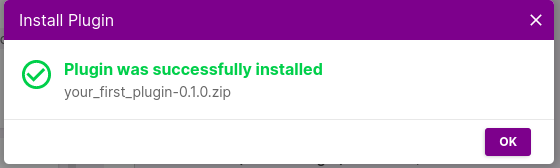
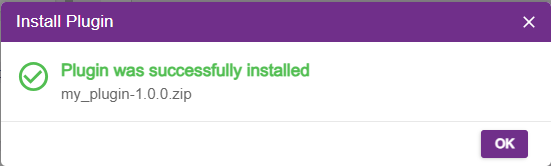
add input box into guided example and update the guides to reflect the new sample data

diff --git a/docs/guided_example/deploy_your_plugin.md b/docs/guided_example/deploy_your_plugin.md
@@ -41,7 +41,7 @@ ai-verify-plugin zip
 !!! note
     A new folder `dist` will be created. This folder is where the packaged `.zip` file will be created and placed.
 
-Verify that the zip file ```your_first_plugin-1.0.0.zip``` exists in your `dist` directory:
+Verify that the zip file ```my_plugin-1.0.0.zip``` exists in your `dist` directory:
 
 The resulting plugin is packaged as a `zip` file, which can be used to share with other developers who are interested in using your plugin. Users and developers can then upload the zip file onto AI Verify through the plugin manager and use it in the report.
 
@@ -52,7 +52,7 @@ To upload the plugin, start the frontend portal of AI Verify. You will need to i
 1. Once the portal is started up, visit the portal at [http://localhost:3000/home](http://localhost:3000/home). In the homepage, click on "Plugins" to visit the Plugin Manager page:
    ![aiv_homepage](../images/aiv_home_page.png)
 
-2. In the **Plugin Manager page**, click on "INSTALL PLUGIN" at the top right and select ```your_first_plugin-0.1.0.zip```, then click on "INSTALL" :
+2. In the **Plugin Manager page**, click on "INSTALL PLUGIN" at the top right and select ```my_plugin-0.1.0.zip```, then click on "INSTALL" :
    ![install_plugin](../images/install_plugin.png)
 
    
@@ -71,21 +71,20 @@ To upload the plugin, start the frontend portal of AI Verify. You will need to i
     ![project_details](../images/project_details.png)
 3. On the **Design Report** page, drag your widget from the left panel to the canvas:
    ![canvas](../images/canvas.png)
-   You can resize the the widget and click on the alignment buttons to refresh its size. When you're ready, click "Next" on the top right.
+   Since the widget is a **dynamic height** widget, the widget height will expand dynamically to fill to the bottom of the canvas. When you're ready, click "Next" on the top right.
 4. On the **Select the Datasets and AI Model to be tested** page, select and upload the dataset, ground truth dataset and model. You can use the dataset provided in the template or download from [here](https://github.com/IMDA-BTG/aiverify/tree/main/examples). Refer to the following table for reference.
 
       | Data, Model, and Test Arguments | Selected Dataset / Model / Test Arguments |
       | ---- | ---------- |
-      | Testing Dataset | ```pickle_pandas_mock_binary_classification_credit_risk_testing.sav``` |
-      | Ground Truth Dataset | ```pickle_pandas_mock_binary_classification_credit_risk_testing.sav```, Ground Truth: ```default``` |
-      | AI Model | ```binary_classification_mock_credit_risk_sklearn.linear_model._logistic.LogisticRegression.sav``` | 
+      | Testing Dataset | ```sample_bc_credit_data.sav``` |
+      | Ground Truth Dataset | ```sample_bc_credit_data.sav```, Ground Truth: ```default``` |
+      | AI Model | ```sample_bc_credit_data.sav``` | 
       | Test Arguments | ```gender``` |
 
-5. For the model, choose ```Upload AI Model``` and click "Next".
+5. During model upload, choose ```Upload AI Model``` to the AI model file and click "Next".
    ![upload_model](../images/upload_model.png)
-6. We will be uploading the ```binary_classification_mock_credit_risk_sklearn.linear_model._logistic.LogisticRegression.sav``` model.
-   ![model_uploaded_successfully](../images/model_uploaded_successfully.png) 
-7. Type `gender` into the plugin arguments. The end result should look like this.
+6. Click "OPEN" at the "My Algorithm" box and type `gender` for the feature name.
+7. Click "OPEN" at the "My Input Block" box and enter your first and last name. The end result should look like this.
    ![data_and_model_selection](../images/data_and_model_selection.png) 
 8. When you are ready, click on "Next" on the top right. Click on "PROCEED" when prompted:
    ![confirm_generate_report](../images/confirm_generate_report.png) 

diff --git a/docs/guided_example/your_first_widget.md b/docs/guided_example/your_first_widget.md
@@ -10,10 +10,11 @@ There are three learning objectives in this tutorial:
 
 Widgets are stored in the **my_plugin/widgets** folder. Use [**ai-verify-plugin gw**](../plugins/Plugin_Tool.md#generate-widget-alias-gw) to generate your widget.
 
-Run the following command to generate a new widget and create a dependency to the algorithm component created earlier.
+Run the following command to generate a new widget and create a dependency to the algorithm and input block components created earlier.
 
 ```bash
-ai-verify-plugin gw "my_widget" --name "My Widget" --description "My first widget" --dep "Algorithm,my_algorithm"
+ai-verify-plugin gw "my_widget" --name "My Widget" --description "My first widget" --dep "Algorithm,my_algorithm" --dep "InputBlock,my_inputblock" --minW 12 --dynamicHeight
+
 ```
 
 Verify that the directory ```widgets``` exists in your current directory with the files for the widgets generated inside.
@@ -22,22 +23,35 @@ Verify that the directory ```widgets``` exists in your current directory with th
 ls widgets
 ```
 
+The following files are created:
+
+- my_widget.mdx
+- my_widget.meta.json
+- my_algorithm.sample.json
+- my_inputblock.sample.json
+
+## Check the Widget Meta Data
+
 Open the file `my_widget.meta.json` under the ```widgets``` folder and check that the properties are set correctly as shown below:
 
-```JSON
+```JSON title="my_widget.meta.json"
 {
   "cid": "my_widget",
   "widgetSize": {
-    "minW": 1,
+    "minW": 12,
     "minH": 1,
     "maxW": 12,
     "maxH": 36
   },
   "name": "My Widget",
   "description": "My first widget",
+  "dynamicHeight": true,
   "dependencies": [
     {
       "cid": "my_algorithm"
+    },
+    {
+      "cid": "my_inputblock"
     }
   ],
   "mockdata": [
@@ -45,15 +59,21 @@ Open the file `my_widget.meta.json` under the ```widgets``` folder and check tha
       "type": "Algorithm",
       "cid": "my_algorithm",
       "datapath": "my_algorithm.sample.json"
+    },
+    {
+      "type": "InputBlock",
+      "cid": "my_inputblock",
+      "datapath": "my_inputblock.sample.json"
     }
   ]
 }
 ```
-## Editing sample file
+
+## Editing sample algorithm file
 
 Open and edit `my_algorithm.sample.json` with a valid sample output from the algorithm or input block. This sample data will be passed to the MDX component props in the project canvas, and allows the MDX to display data based on sample input.
 
-```JSON
+```JSON title="my_algorithm.sample.json"
 {"my_expected_results": [
       33280.0,
       40000.0,
@@ -71,20 +91,41 @@ Open and edit `my_algorithm.sample.json` with a valid sample output from the alg
 }
 ```
 
+## Editing sample input block file
+
+Open and edit `my_inputblock.sample.json` with a valid sample output from the algorithm or input block. This sample data will be passed to the MDX component props in the project canvas, and allows the MDX to display data based on sample input.
+
+```JSON title="my_inputblock.sample.json"
+{
+  "fname": "John",
+  "lname": "Doe"
+}
+```
+
 ## Editing MDX
 
 Open and edit `my_widget.mdx` to implement the MDX content.
 
-```Javascript
-export const cid = "my_algorithm"
+```Javascript title="my_widget.mdx"
+export const algo_cid = "my_algorithm"
+export const ib_cid = "my_inputblock"
 
-{props.getResults(cid)?(
+{props.getIBData(ib_cid)?(
   <>
-    <b>JSON output of algorithm</b>
-    <div style={{ maxHeight:"100px", overflow:"auto" }}>{JSON.stringify(props.getResults(cid))}</div>
+    <b>JSON output of input block data</b>
+    <div>{JSON.stringify(props.getIBData(ib_cid))}</div>
   </>
 ):(
-  <div>No data</div>
+  <div>No widget data</div>
+)}
+
+{props.getResults(algo_cid)?(
+  <>
+    <b>JSON output of algorithm</b>
+    <pre>{JSON.stringify(props.getResults(algo_cid),null,2)}</pre>
+  </>
+):(
+  <div>No algorithm data</div>
 )}
 ```
 

diff --git a/docs/guided_example/your_first_inputblock.md b/docs/guided_example/your_first_inputblock.md
@@ -1,0 +1,78 @@
+# Creating your First Input Block Component
+
+In this example, you will be building an input block component that prompts the user to enter their first and last name in a web form.
+
+There are three learning objectives in this tutorial:
+
+1. Create a input block component in the plugin project.
+2. Modify the input block component to create a web form with inputs for first and last name
+
+## Generating a input block component
+
+Widgets are stored in the **my_plugin/inputs** folder. Use [**ai-verify-plugin gib**](../plugins/Plugin_Tool.md#generate-inputblock-alias-gib) to generate your widget.
+
+Run the following command to generate a new input block.
+
+```bash
+ai-verify-plugin gib "my_inputblock" --name "My Input Block" --description "My first Input Block"
+```
+
+Verify that the directory ```inputs``` exists in your current directory with the files for the input block generated inside.
+
+```bash
+ls inputs
+```
+
+The following files are created:
+
+- my_inputblock.mdx
+- my_inputblock.summary.mdx
+- my_inputblock.meta.json
+
+## Check the Input Block Meta Data
+
+Open the file `my_inputblock.meta.json` under the ```inputs``` folder and check that the properties are set correctly as shown below:
+
+```JSON title="my_inputblock.meta.json"
+{
+  "cid": "my_inputblock",
+  "name": "My Input Block",
+  "description": "My first Input Block"
+}
+```
+
+## Editing MDX
+
+Open and edit `my_inputblock.mdx` to implement the MDX content.
+
+```HTML title="my_inputblock.mdx"
+<div style={{ display:"flex", flexDirection:"column"}}>
+  <label htmlFor="fname">First name:</label>
+  <input type="text" id="fname" value={props.data["fname"]} onChange={(e)=>props.onChangeData("fname",e.target.value)} />
+  <label htmlFor="lname">Last name:</label>
+  <input type="text" id="lname" value={props.data["lname"]} onChange={(e)=>props.onChangeData("lname",e.target.value)} />
+</div>
+```
+
+## Editing Summary MDX
+
+Open and edit `my_inputblock.summary.mdx` to update the summary MDX content as highlighted.
+
+```Javascript title="my_inputblock.summary.mdx" linenums="1" hl_lines="5"
+export const progress = (data) => {
+	// TODO: replace below code with percentage of user completion.
+  if (!data)
+    return 0;
+  const totalKeys = 2;
+  const numKeys = Object.values(data).filter(v => {
+    if (typeof (v) === "string" || Array.isArray(v)) {
+      return v.length > 0;
+    } else {
+      return true;
+    }
+  }).length;
+  return Math.round((numKeys / totalKeys) * 100);
+}
+```
+
+Once you have build your input block, you can proceed to [create a widget](./your_first_widget.md).

diff --git a/docs/guided_example/your_first_algorithm.md b/docs/guided_example/your_first_algorithm.md
@@ -28,6 +28,40 @@ ls algorithms/my_algorithm
 
 You should see the files generated for the algorithm component under the directory. For more information on the files generated, see [Understanding your algorithm project](../plugins/algorithm/file_structure.md).
 
+## Check the Algorithm Meta Data
+
+Open the file `my_algorithm.meta.json` under the ```widgets``` folder and check that the properties are set correctly as shown below:
+
+```JSON title="my_algorithm.meta.json"
+{
+  "cid": "my_algorithm",
+  "name": "My Algorithm",
+  "modelType": [
+    "classification"
+  ],
+  "version": "0.1.0",
+  "author": "Example Author",
+  "description": "This algorithm returns the value of the feature name selected by the user.",
+  "tags": [
+    "My Algorithm",
+    "classification"
+  ],
+  "requireGroundTruth": true,
+  "requiredFiles": [
+    "AUTHORS.rst",
+    "CHANGELOG.md",
+    "input.schema.json",
+    "LICENSE",
+    "output.schema.json",
+    "my_algorithm.meta.json",
+    "my_algorithm.py",
+    "README.md",
+    "requirements.txt",
+    "syntax_checker.py"
+  ]
+}
+```
+
 ## Modifying input schema
 
 First, modify `input.schema.json` to request an input called `feature_name` from the user when the user uses this algorithm. Notice the highlighted lines that requires a `feature_name` field, and the properties of the `feature_name` is also defined.
@@ -150,6 +184,6 @@ Next, run [`ai-verify-plugin testa`](../plugins/Plugin_Tool.md#test-algorithm-al
 ai-verify-plugin testa
 ```
 
-If the test passes (no error messages in terminal), you have **successfully completed** the creation of the algorithm component. At this stage, you can either [**deploy your algorithm component**](./deploy_your_plugin.md) as a standalone plugin, or continue to [**work on other components**](./your_first_widget.md) (eg. another algorithm, widget, input block etc) before packaging it as a single plugin.
+If the test passes (no error messages in terminal), you have **successfully completed** the creation of the algorithm component. At this stage, you can either [**deploy your algorithm component**](./deploy_your_plugin.md) as a standalone plugin, or continue to [**work on other components**](./your_first_inputblock.md) (eg. another algorithm, widget, input block etc) before packaging it as a single plugin.
 
 If the test fails, refer to the troubleshooting guide for help.

diff --git a/docs/guided_example/your_first_plugin.md b/docs/guided_example/your_first_plugin.md
@@ -21,9 +21,11 @@ The project folder `my_plugin` should be generated under the plugin directory. U
 * plugin.meta.json
 * .gitignore
 
+## Check the Plugin Meta Data
+
 Open the plugin meta file `plugin.meta.json` and make sure that the meta properties are set correctly as follows:
 
-```JSON
+```JSON title="plugin.meta.json"
 {
   "gid": "my_plugin",
   "name": "My Plugin",
